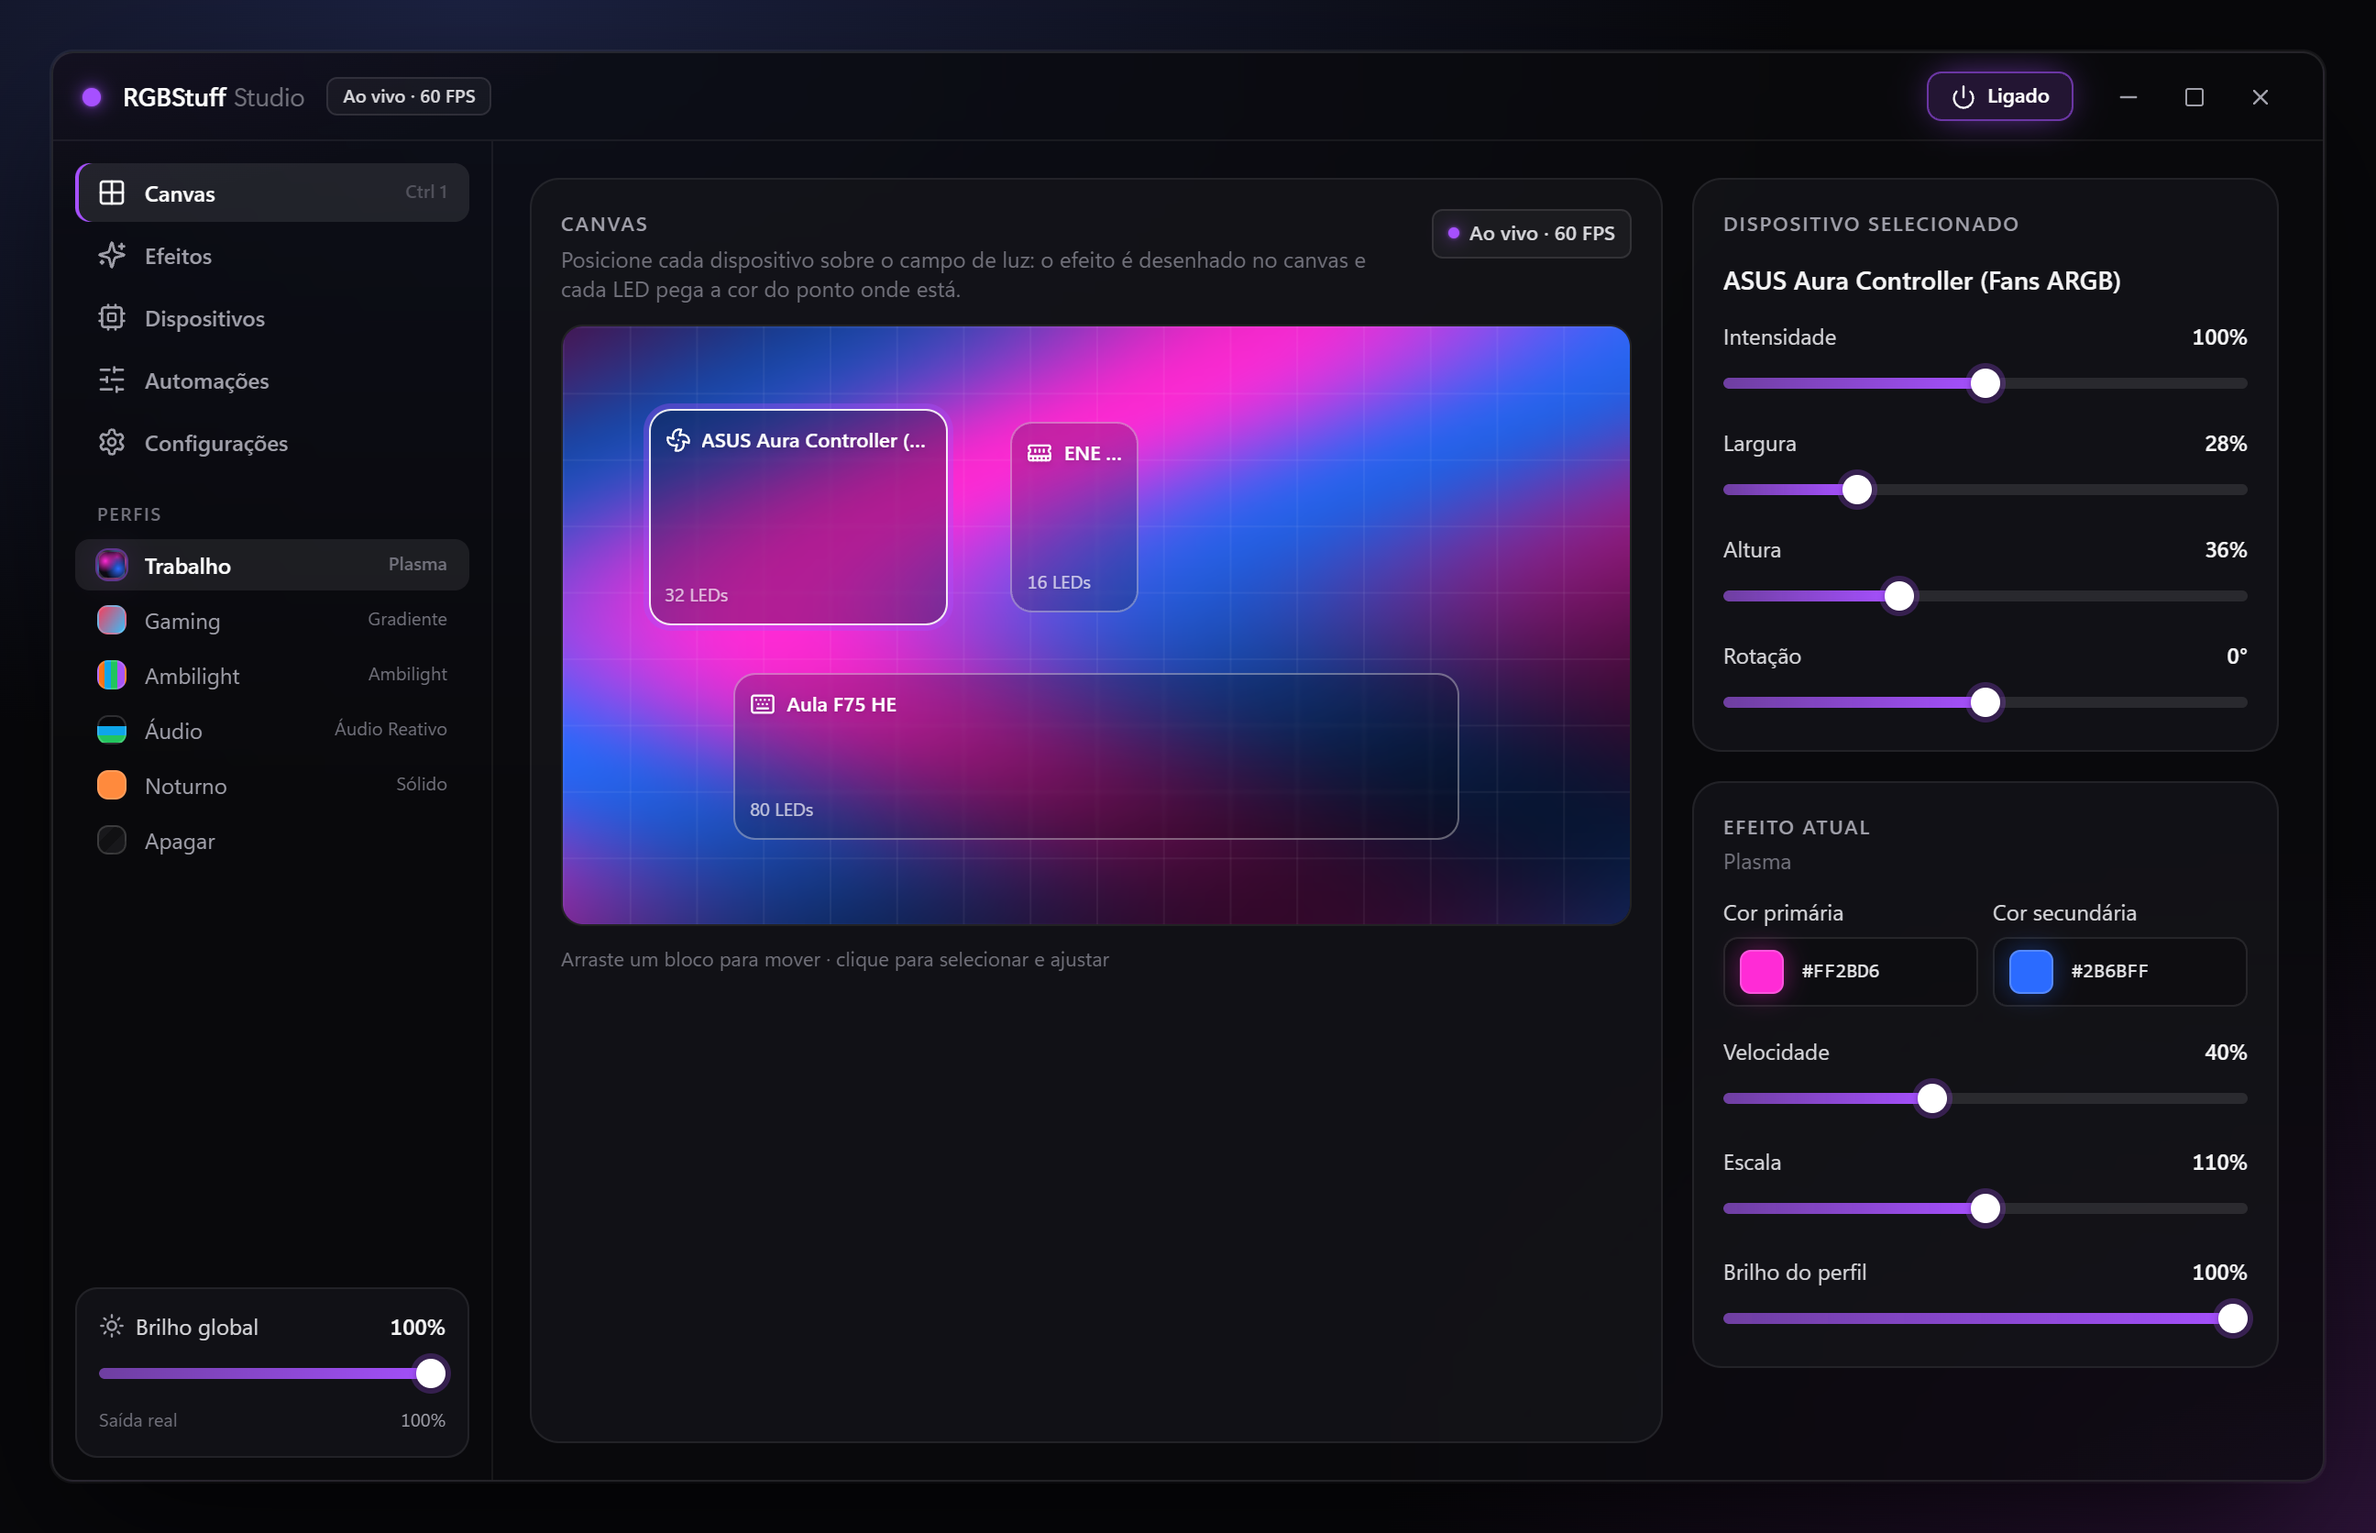
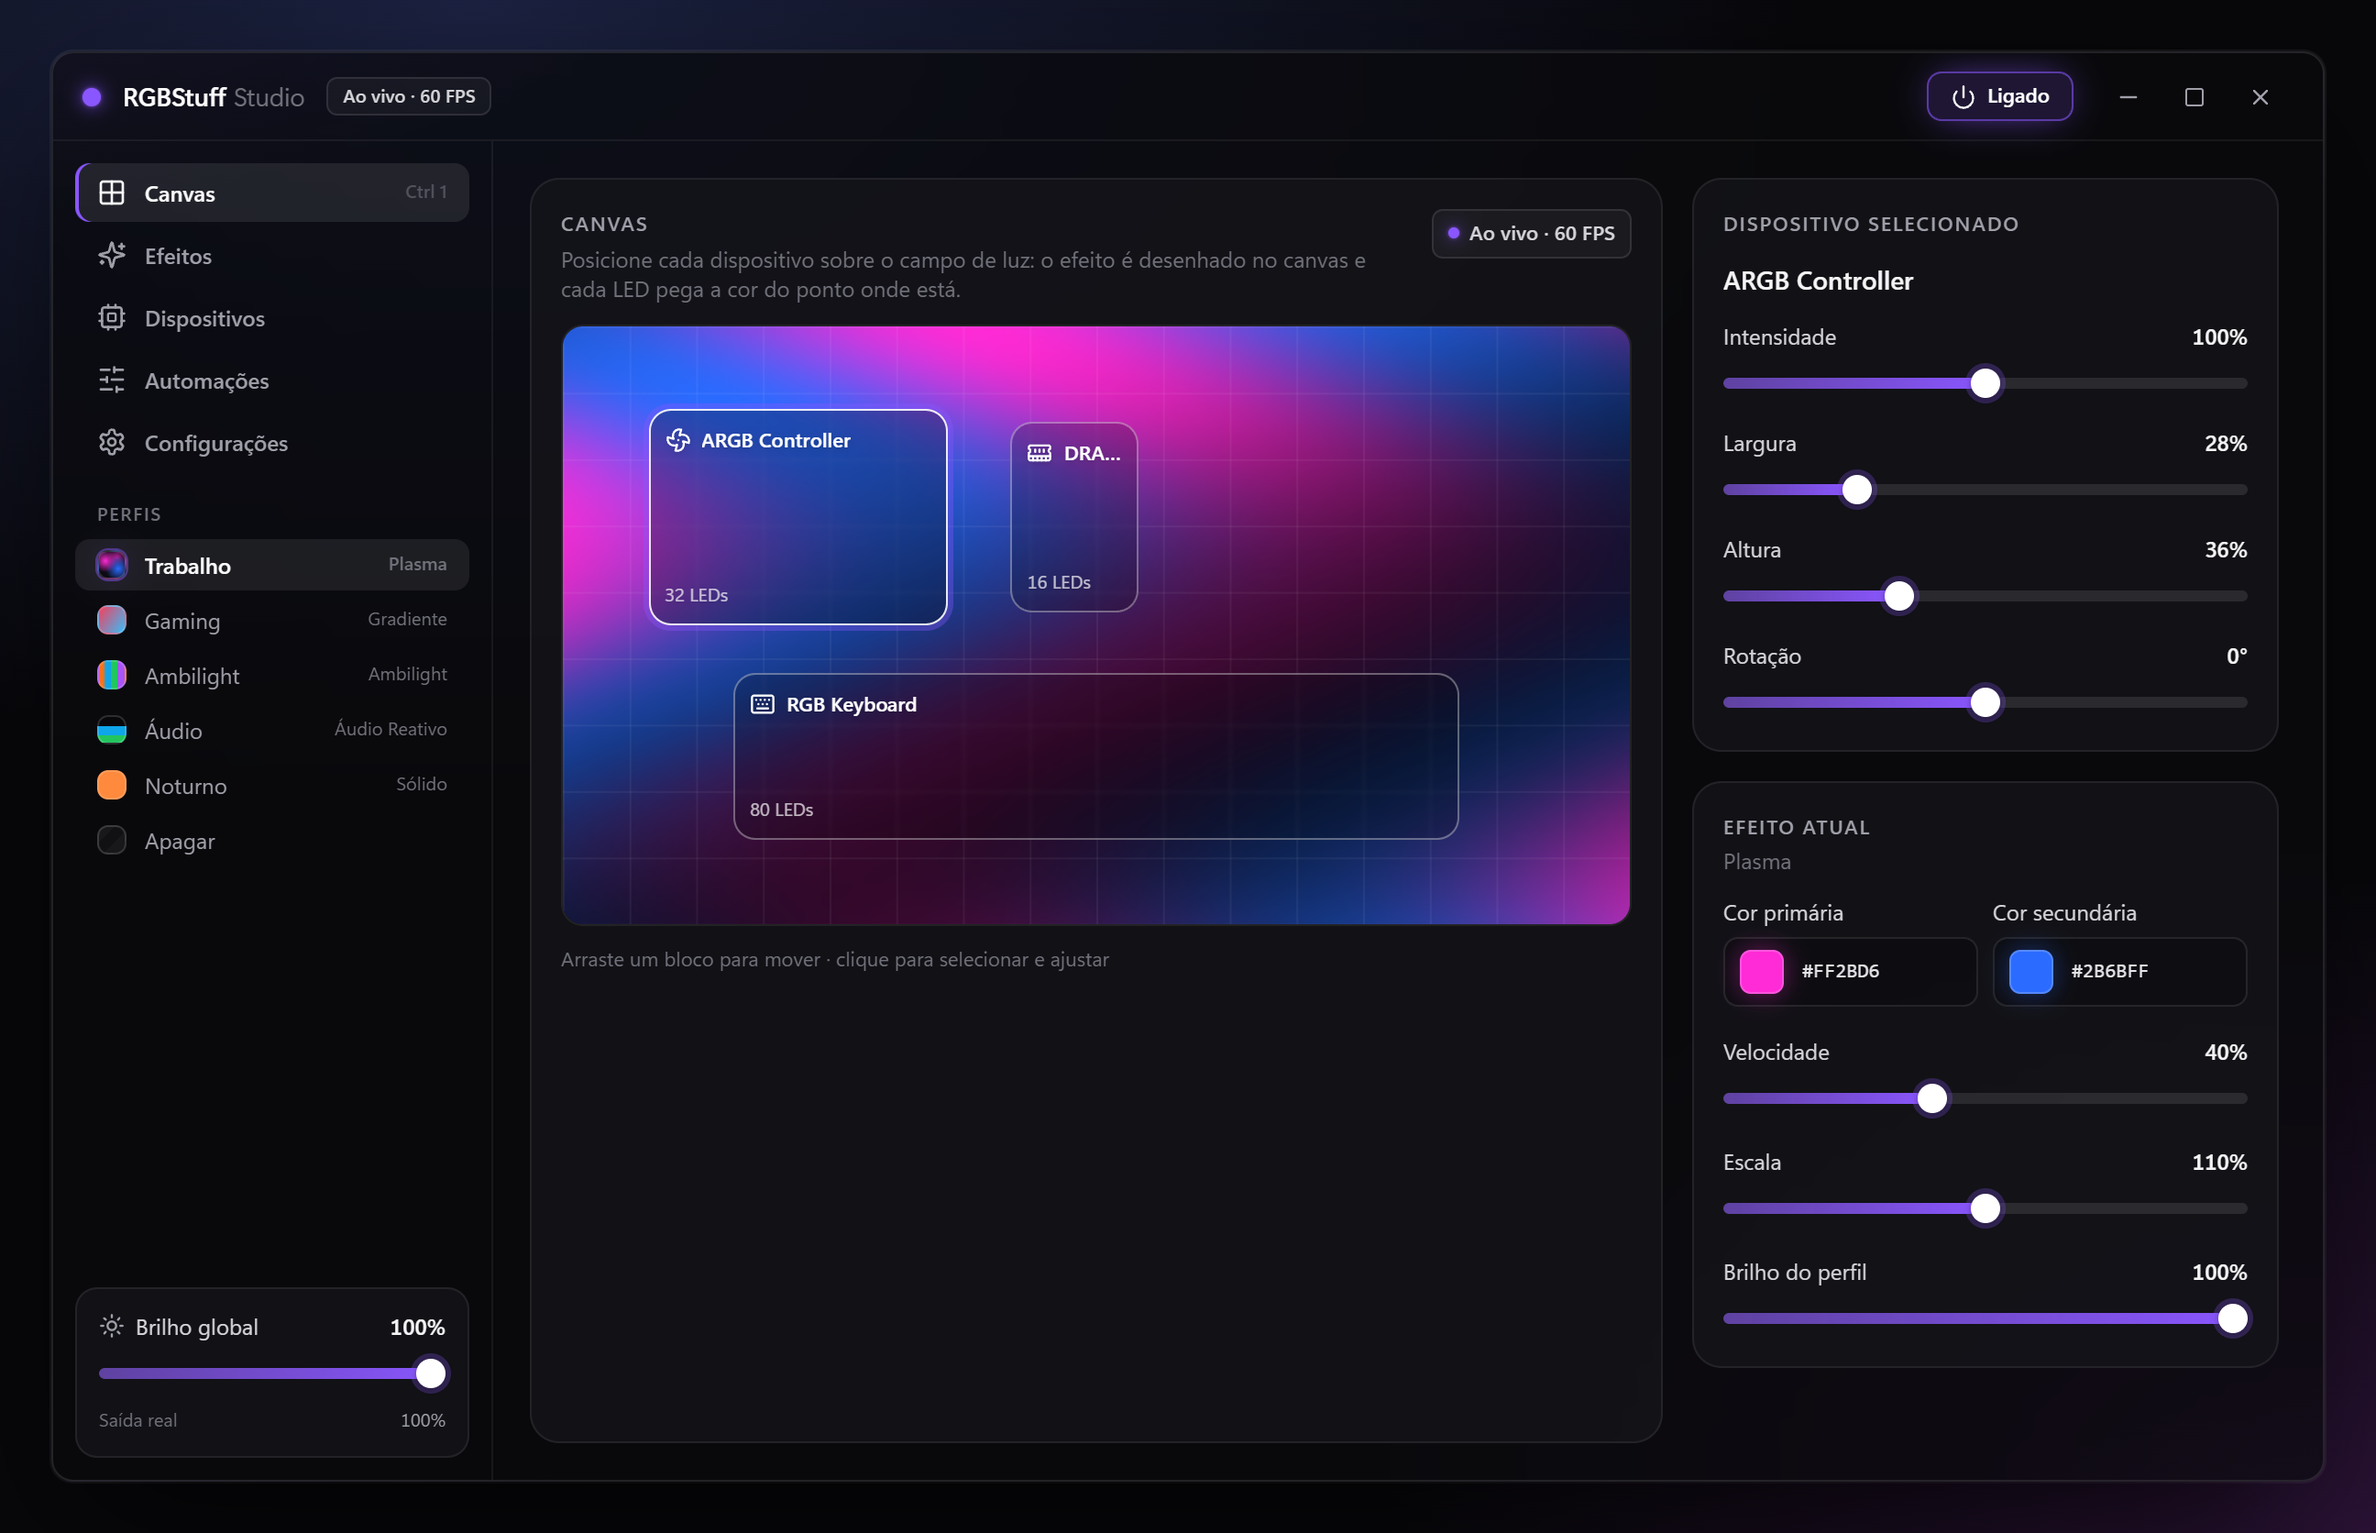
docs: generic hardware wording, tested-on note, neutral sample devices in screenshots

diff --git a/apps/desktop/src/lib/tauri.ts b/apps/desktop/src/lib/tauri.ts
@@ -274,12 +274,12 @@ const DEV_PREVIEW_STATE: BootstrapState = {
   devices: [
     {
       id: "asus-aura-0b05-19af",
-      name: "ASUS Aura Controller (Fans ARGB)",
+      name: "ARGB Controller",
       kind: "motherboard_aura",
       transport: "usb_hid",
       vid_pid: "0B05:19AF",
       connected: true,
-      status_note: "FW AULA3-AR32-0220 · USB HID Direct",
+      status_note: "USB HID · direct mode",
       capabilities: ["rgb"],
       zones: [
         { id: "argb-1", name: "ARGB Header 1", led_count: 16 },
@@ -289,12 +289,12 @@ const DEV_PREVIEW_STATE: BootstrapState = {
     },
     {
       id: "asgard-ddr4-smbus",
-      name: "ENE DRAM RGB",
+      name: "DRAM RGB",
       kind: "ram",
       transport: "pawn_io_smbus",
       vid_pid: "1022:790B",
       connected: true,
-      status_note: "PawnIO 2.0.0 ready",
+      status_note: "SMBus · 2 DIMMs",
       capabilities: ["rgb"],
       zones: [
         { id: "dimm-1", name: "DIMM 1", led_count: 8 },
@@ -304,7 +304,7 @@ const DEV_PREVIEW_STATE: BootstrapState = {
     },
     {
       id: "aula-f75-he",
-      name: "Aula F75 HE",
+      name: "RGB Keyboard",
       kind: "keyboard",
       transport: "usb_hid",
       vid_pid: "38A6:2729",
@@ -316,7 +316,7 @@ const DEV_PREVIEW_STATE: BootstrapState = {
     },
     {
       id: "rapoo-vt-24ae-14a1",
-      name: "Rapoo Wireless Mouse",
+      name: "Wireless Mouse",
       kind: "mouse",
       transport: "usb_hid",
       vid_pid: "24AE:14A1",
@@ -328,7 +328,7 @@ const DEV_PREVIEW_STATE: BootstrapState = {
     },
     {
       id: "mchose-v9-pro-2",
-      name: "MCHOSE V9 Pro 2",
+      name: "Wireless Headset",
       kind: "headset",
       transport: "usb_hid",
       vid_pid: "3837:6011",

diff --git a/README.pt-BR.md b/README.pt-BR.md
@@ -17,7 +17,7 @@
 <p align="center">
   <a href="https://github.com/bps2414/RGBStuff/releases/latest"><img src="https://img.shields.io/github/v/release/bps2414/RGBStuff?label=release&color=24292f" alt="Última versão"></a>
   <a href="https://github.com/bps2414/RGBStuff/releases"><img src="https://img.shields.io/github/downloads/bps2414/RGBStuff/total?color=24292f" alt="Downloads"></a>
-  <img src="https://img.shields.io/badge/Windows-11-24292f" alt="Windows 11">
+  <img src="https://img.shields.io/badge/testado_em-Windows_11-24292f" alt="Testado em Windows 11">
   <img src="https://img.shields.io/badge/feito_com-Rust%20%2B%20Tauri%202-24292f" alt="Feito com Rust e Tauri 2">
   <a href="LICENSE"><img src="https://img.shields.io/badge/licen%C3%A7a-MIT-24292f" alt="Licença MIT"></a>
 </p>
@@ -79,15 +79,11 @@ Desinstalar por **Configurações → Aplicativos** remove o app e a entrada de 
 
 ## Hardware suportado
 
-| Dispositivo | Conexão | O que o RGBStuff faz |
-| --- | --- | --- |
-| Controlador ASUS Aura USB ARGB (`0B05:19AF`) | USB HID | Modo direto por LED nos 2 headers ARGB, quantidade de LEDs por header |
-| ENE DRAM RGB (ex.: Asgard DDR4) | SMBus via [PawnIO](https://pawnio.eu) | Modo direto por LED, só endereços SMBus `0x70–0x77` |
-| Aula F75 HE (`38A6:2729`) | USB HID | Cor estática e por tecla ao vivo |
-| Mouse Rapoo série VT (`24AE:14A1`) | USB HID | Bateria, carregamento, DPI |
-| Headset MCHOSE V9 Pro 2 (`3837:6011`) | USB HID | Bateria, conexão |
+O RGBStuff fala com os dispositivos por drivers nativos pequenos: controladores ARGB da placa-mãe via USB HID, RAM RGB via SMBus (pelo [PawnIO](https://pawnio.eu), só endereços `0x70–0x77`), teclados com RGB por tecla via USB HID e telemetria de bateria de mouses e headsets sem fio.
 
-O RGBStuff instala e roda em qualquer PC com Windows 11 (no Windows 10 deve funcionar, mas não foi testado). Dispositivos sem driver simplesmente não aparecem; o Canvas avisa quando nenhum dispositivo RGB foi encontrado.
+Ele instala e roda em qualquer PC com Windows 11. Dispositivos sem driver simplesmente não aparecem, e o Canvas avisa quando nenhum dispositivo RGB foi encontrado.
+
+**Testado em** Windows 11 com um controlador ASUS Aura USB ARGB, DDR4 RGB com controlador ENE, teclado Aula F75 HE, mouse Rapoo VT e headset MCHOSE V9 Pro 2. Windows 10 e outros dispositivos não foram testados; relatos são bem-vindos.
 
 ## Perguntas frequentes
 
@@ -114,7 +110,7 @@ Um app Tauri 2 com núcleo em Rust e interface em React 19. O motor desenha os e
 crates/
   rgb-core        cores, config (TOML atômico), traits de dispositivo, importador de hubs
   rgb-engine      canvas, efeitos, ritmo de frames, sono com 0% de CPU
-  rgb-drivers     ASUS Aura USB, ENE DRAM, Aula F75 HE, Rapoo, MCHOSE
+  rgb-drivers     drivers nativos USB HID e SMBus
   rgb-capture     ambilight via DXGI, loopback WASAPI + FFT
   rgb-automation  bloqueio, suspensão, inatividade, horário noturno, app em foco
   rgb-smbus-svc   serviço SMBus elevado opcional (PawnIO)
@@ -141,7 +137,7 @@ cargo test --workspace
 
 MIT. Veja [LICENSE](LICENSE).
 
-O RGBStuff é um projeto independente, sem vínculo com ASUS, Aula, Rapoo, MCHOSE ou qualquer fabricante. Os nomes aparecem só para descrever compatibilidade.
+O RGBStuff é um projeto independente, sem vínculo com nenhum fabricante. Nomes de produtos aparecem só para descrever compatibilidade.
 
 ---
 

diff --git a/README.md b/README.md
@@ -17,7 +17,7 @@
 <p align="center">
   <a href="https://github.com/bps2414/RGBStuff/releases/latest"><img src="https://img.shields.io/github/v/release/bps2414/RGBStuff?label=release&color=24292f" alt="Latest release"></a>
   <a href="https://github.com/bps2414/RGBStuff/releases"><img src="https://img.shields.io/github/downloads/bps2414/RGBStuff/total?color=24292f" alt="Downloads"></a>
-  <img src="https://img.shields.io/badge/Windows-11-24292f" alt="Windows 11">
+  <img src="https://img.shields.io/badge/tested_on-Windows_11-24292f" alt="Tested on Windows 11">
   <img src="https://img.shields.io/badge/built_with-Rust%20%2B%20Tauri%202-24292f" alt="Built with Rust and Tauri 2">
   <a href="LICENSE"><img src="https://img.shields.io/badge/license-MIT-24292f" alt="MIT license"></a>
 </p>
@@ -79,15 +79,11 @@ Uninstalling from **Settings → Apps** removes the app and its *Start with my P
 
 ## Supported hardware
 
-| Device | Connection | What RGBStuff does |
-| --- | --- | --- |
-| ASUS Aura USB ARGB controller (`0B05:19AF`) | USB HID | Per-LED direct mode on 2 ARGB headers, LED count per header |
-| ENE DRAM RGB (e.g. Asgard DDR4) | SMBus via [PawnIO](https://pawnio.eu) | Per-LED direct mode, SMBus addresses `0x70–0x77` only |
-| Aula F75 HE (`38A6:2729`) | USB HID | Static and per-key live colors |
-| Rapoo VT series mouse (`24AE:14A1`) | USB HID | Battery, charging, DPI |
-| MCHOSE V9 Pro 2 headset (`3837:6011`) | USB HID | Battery, connection |
+RGBStuff talks to devices through small native drivers: motherboard ARGB controllers over USB HID, DRAM RGB over SMBus (through [PawnIO](https://pawnio.eu), addresses `0x70–0x77` only), per-key keyboards over USB HID, and battery telemetry for wireless mice and headsets.
 
-RGBStuff installs and runs on any Windows 11 PC (Windows 10 should work but is untested). Devices it doesn't have a driver for simply don't show up; the Canvas tells you when no RGB device was found.
+It installs and runs on any Windows 11 PC. Devices without a driver simply don't show up, and the Canvas tells you when no RGB device was found.
+
+**Tested on** Windows 11 with an ASUS Aura USB ARGB controller, ENE-based DDR4 RGB, an Aula F75 HE keyboard, a Rapoo VT mouse and a MCHOSE V9 Pro 2 headset. Windows 10 and other devices are untested; reports are welcome.
 
 ## FAQ
 
@@ -114,7 +110,7 @@ A Tauri 2 app with a Rust core and a React 19 interface. The engine renders effe
 crates/
   rgb-core        colors, config (atomic TOML), device traits, hub importer
   rgb-engine      canvas, effects, frame pacing, zero-CPU sleep
-  rgb-drivers     ASUS Aura USB, ENE DRAM, Aula F75 HE, Rapoo, MCHOSE
+  rgb-drivers     native USB HID and SMBus device drivers
   rgb-capture     DXGI ambilight, WASAPI loopback + FFT
   rgb-automation  lock, sleep/wake, idle, night window, focused app
   rgb-smbus-svc   optional elevated SMBus service (PawnIO)
@@ -141,7 +137,7 @@ cargo test --workspace
 
 MIT. See [LICENSE](LICENSE).
 
-RGBStuff is an independent project, not affiliated with ASUS, Aula, Rapoo, MCHOSE or any hardware vendor. Their names are used only to describe compatibility.
+RGBStuff is an independent project, not affiliated with any hardware vendor. Product names are used only to describe compatibility.
 
 ---
 

diff --git a/docs/protocols/hardware-probe.md b/docs/protocols/hardware-probe.md
@@ -1,6 +1,6 @@
 # Hardware Probe Report (Captured via `hid-probe`)
 
-Captured on target Windows machine (`ASUS TUF GAMING A520M-PLUS II`, `AMD Ryzen 5 5500`, `Asgard DDR4-3200 2x8GB`).
+Descriptors captured on the test machine. They document the protocols the drivers speak; your device may expose different interfaces.
 
 ## 1. ASUS Aura USB Controller (`0B05:19AF`)
 - **Interface**: `iface=2`, `usage_page=0xFF72`, `usage=0x00A1`
